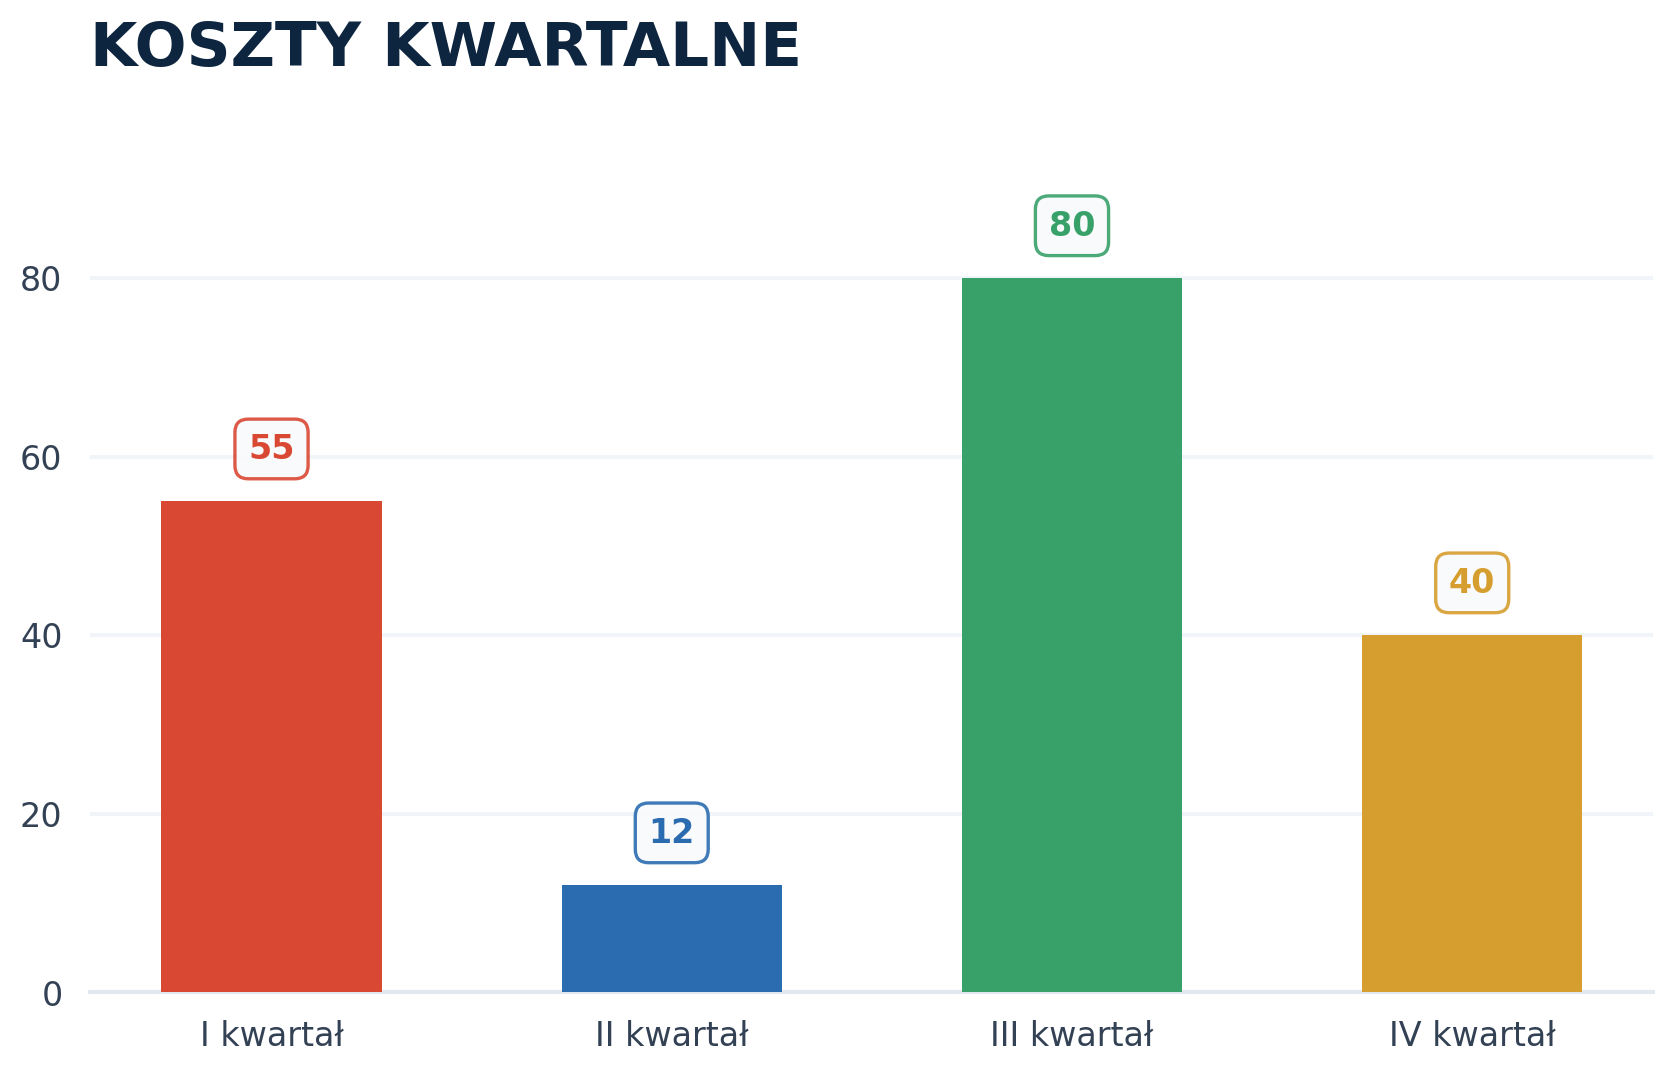
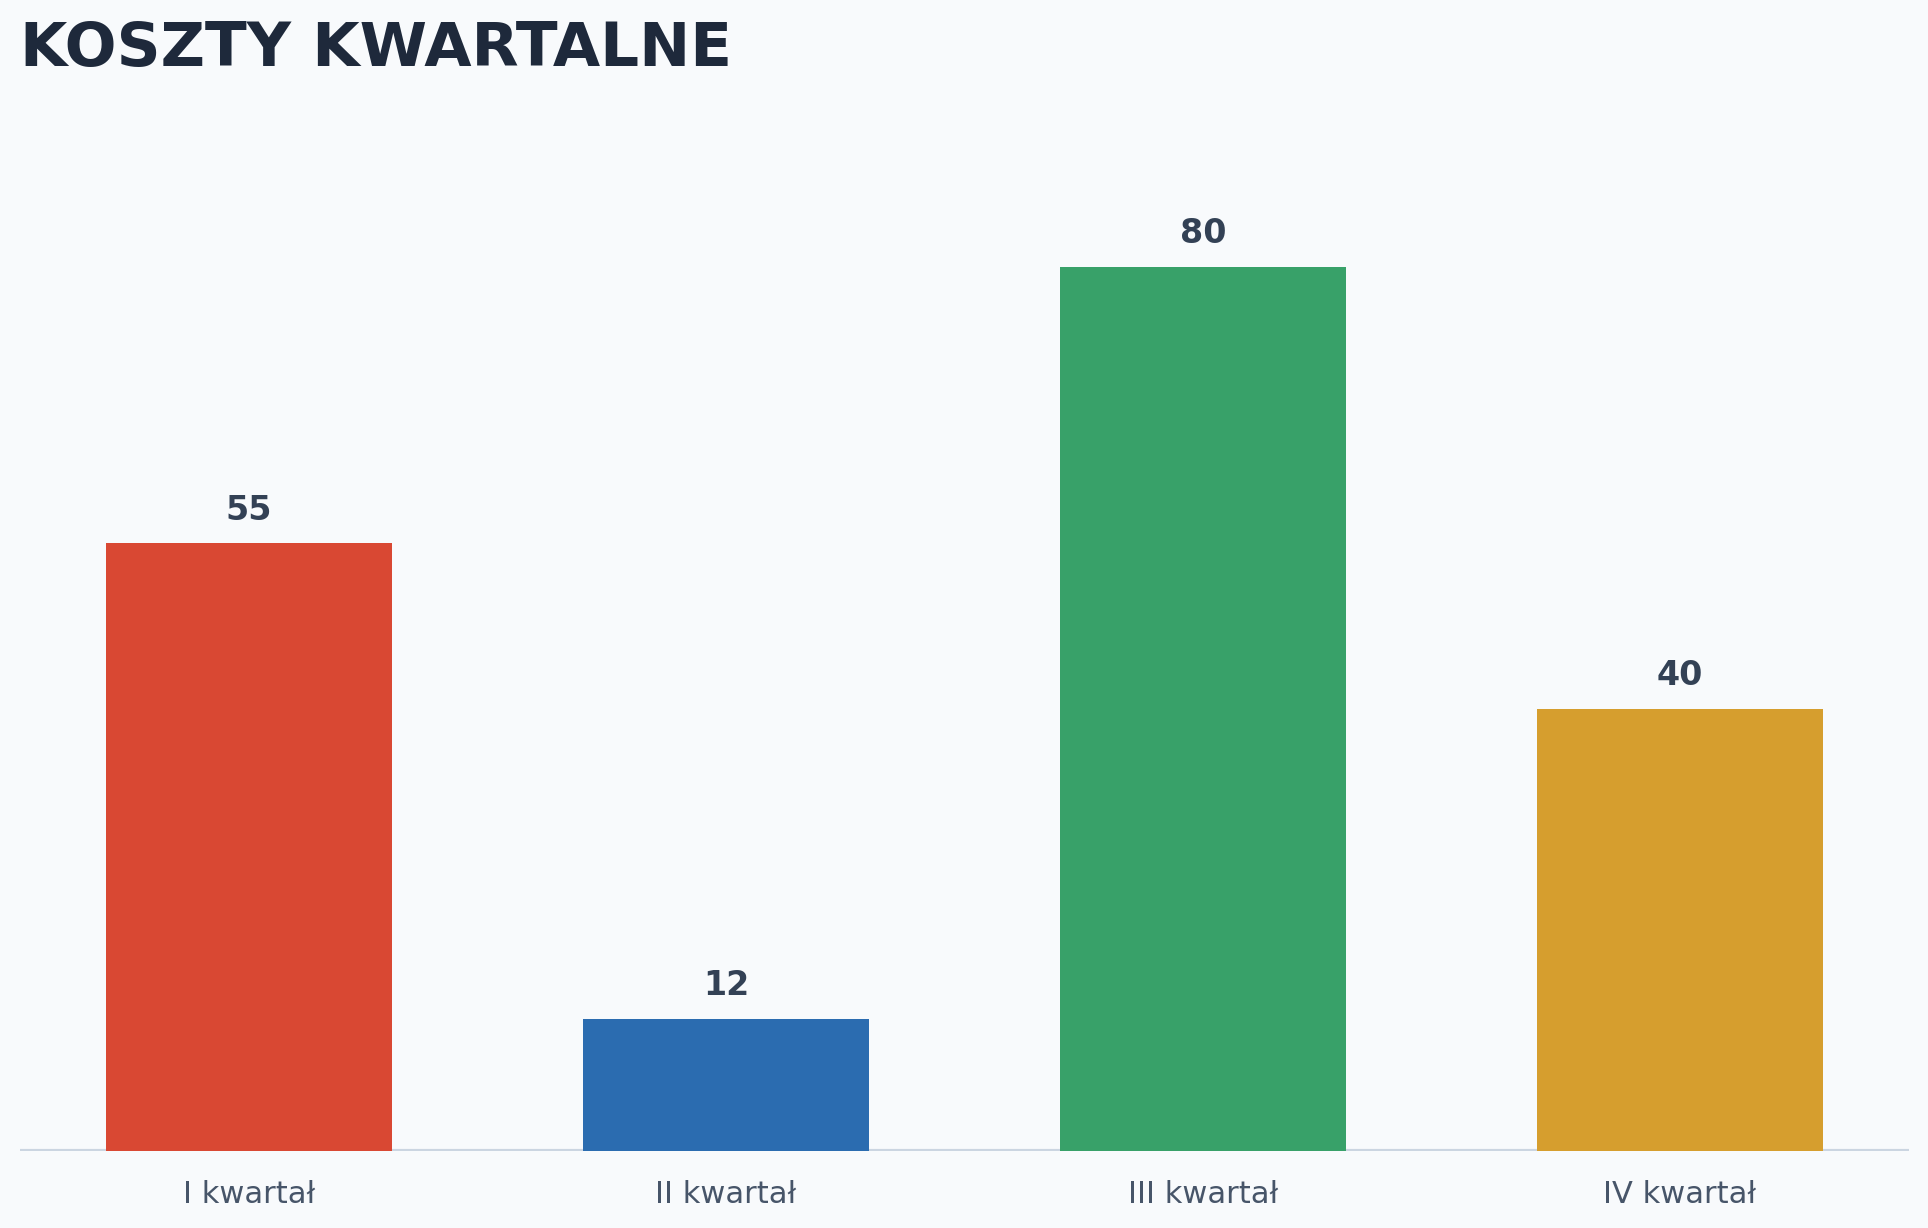
wykres zmianka

diff --git a/app/visualization/generators.py b/app/visualization/generators.py
@@ -25,7 +25,7 @@ def setup_modern_axes(ax):
     ax.tick_params(axis='y', colors=TEXT_COLOR, labelsize=12, length=0, pad=10)
 
 def generate_chart_png(data: dict) -> bytes:
-    """Generuje niesamowicie czysty i kolorowy PNG dla typu 'wykres'"""
+    """Generuje minimalistyczny, 'premium' PNG dla typu 'chart'"""
     labels = data.get("labels", [])
     if data.get("datasets"):
         values = data["datasets"][0].get("data", [])
@@ -34,12 +34,16 @@ def generate_chart_png(data: dict) -> bytes:
         values = []
         label_name = "Wartość"
 
-    fig, ax = plt.subplots(figsize=(9, 6), facecolor="white")
-    ax.set_facecolor("white")
+    # Nowoczesne, jasnoszary tło aplikacji (np. Tailwind Slate-50)
+    bg_color = "#F8FAFC"
+    fig, ax = plt.subplots(figsize=(10, 6.5), facecolor=bg_color)
+    ax.set_facecolor(bg_color)
     
-    setup_modern_axes(ax)
+    # Całkowite usunięcie ramek (spines) zokoła wykresu
+    for spine in ax.spines.values():
+        spine.set_visible(False)
 
-    # Kolorowa Paleta Legal Design (taka sama jak w osi czasu)
+    # Kolorowa Paleta Legal Design
     NODE_COLORS = [
         "#D94833", # Elegancka czerwień/cegła
         "#2B6CB0", # Klasyczny Niebieski
@@ -49,46 +53,66 @@ def generate_chart_png(data: dict) -> bytes:
         "#319795"  # Turkusowy
     ]
     
+    # Siatka (Grid) - tylko poziome linie, ledwie widoczne w tle
+    ax.yaxis.grid(True, linestyle='-', which='major', color='#E2E8F0', alpha=0.8, zorder=0)
+    ax.set_axisbelow(True) 
+    ax.get_yaxis().set_ticks([]) # Ukrycie brzydkich osi Y
+    
+    # Twarda "podłoga" (baza) na osi X dla słupków
+    ax.axhline(0, color="#CBD5E1", linewidth=1.5, zorder=2)
+
     # Dostosuj kolory słupków w zależności od ich ilości
     bar_colors = [NODE_COLORS[i % len(NODE_COLORS)] for i in range(len(labels))]
 
-    # Rysowanie słupków z piękną paletą
-    bars = ax.bar(labels, values, color=bar_colors, edgecolor="none", zorder=3, width=0.55)
+    # Zawijanie zbyt długich etykiet z osi X
+    import textwrap
+    wrapped_labels = [textwrap.fill(lbl, width=15) for lbl in labels]
 
-    # Etykiety nad słupkami (w pudełkach dla lepszej czytelności)
-    for bar, color in zip(bars, bar_colors):
+    # Klasyczne, profesjonalne słupki bez zaokrągleń
+    bars = ax.bar(wrapped_labels, values, color=bar_colors, edgecolor="none", zorder=3, width=0.6)
+
+    # Etykiety z liczbami nad słupkami
+    for bar in bars:
         h = bar.get_height()
+        formatted_val = f"{int(h):,}".replace(",", " ") if h == int(h) else str(h)
+        
         ax.text(
             bar.get_x() + bar.get_width() / 2., 
-            h + (max(values) * 0.05),
-            f'{h}',
+            h + (max(values) * 0.02),
+            formatted_val,
             ha='center', va='bottom',
-            fontsize=12, fontweight='bold', color=color,
-            bbox=dict(
-                boxstyle="round,pad=0.4",
-                facecolor="#F8FAFC",
-                edgecolor=color, # Ramka pod kolor słupka
-                linewidth=1.2,
-                alpha=0.9
-            )
+            fontsize=12, fontweight='bold', color="#334155", # Klasyczny ciemny szary dla czytelności
+            zorder=4
         )
 
-    # Tytuł wyrównany do lewej (styl raportowy)
+    # Ustawienie i modyfikacja wyglądu etykiet osi X
+    ax.tick_params(axis='x', colors="#475569", labelsize=11, length=0, pad=10)
+    
+    for label in ax.get_xticklabels():
+        label.set_fontweight('medium')
+
+    # Nowoczesny, czysty tytuł z lewej strony
+    wrapped_title = textwrap.fill(label_name.upper(), width=50)
+    
     ax.set_title(
-        label_name.upper(), 
+        wrapped_title, 
         fontsize=22, 
         fontweight="bold", 
-        color=PRIMARY_COLOR, 
+        color="#1E293B",
         loc="left", 
         pad=25
     )
     
-    # Skalujemy margines Y, by pudełka z wartościami nie wychodziły poza krawędź
-    ax.set_ylim(0, max(values) * 1.2 if values else 1)
+    # Skalujemy margines Y z buforem żeby liczby oddychały
+    if values:
+        ax.set_ylim(0, max(values) * 1.15)
+    else:
+        ax.set_ylim(0, 1)
 
-    plt.tight_layout(pad=3.0)
+    plt.tight_layout(pad=2.0)
     buf = io.BytesIO()
-    plt.savefig(buf, format='png', dpi=200, bbox_inches='tight')
+    # Zapis
+    plt.savefig(buf, format='png', dpi=200, bbox_inches='tight', facecolor=fig.get_facecolor())
     buf.seek(0)
     plt.close(fig)
     return buf.getvalue()
